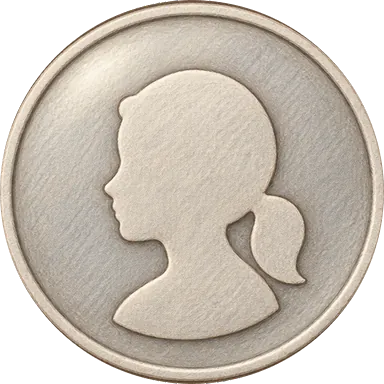
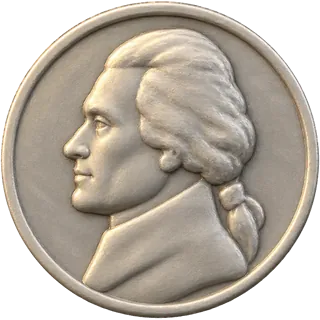
Give Market Stall and Coin Vault real-looking US coins
The owner could not tell a dime from a nickel: Market Stall's linocut coins
drew the nickel, dime and quarter in the same blue on cream, and Coin
Vault's plain silhouettes did not tell the coins apart. Both games now use
byte copies of Piggy Parade's 320x320 coins (copper Lincoln penny, smooth
silver Jefferson nickel, smaller reeded Roosevelt dime, reeded Washington
quarter), so the hub shows one set of coins. Coin pictures are allowed per
research doc 08 section 5 (18 U.S.C. 489 covers physical tokens).

The largest coin drawing at 1920x1080 is 291 px in Market Stall (tier-0
quarter in its pick-up squash) and 258 px in Coin Vault, under 320, so no
larger set was needed. Market Stall's coin landing chips are now copper
for a penny and silver for the other coins, and the closing stream is
silver, copper and cream. Both design docs record the change, the reason
and the new asset rows, and drop the old no-real-portrait coin rule.

diff --git a/src/games/market-stall/scene.ts b/src/games/market-stall/scene.ts
@@ -16,7 +16,7 @@ import { drawStarRow, STAR_GAP_SECONDS, STAR_HIT_SECONDS } from '../../ui/celebr
 import { drawEnterFade } from '../../ui/motion';
 import { BOOK_GLIDE, BOOK_ICON_PATH, createStickerOffers, leaveAlpha, leaveDrop, onBook, PICK_FLY, PICK_LIFT, PICK_SECONDS, placeBook } from '../../ui/sticker-offer';
 import { approach, clamp01, easeInCubic, easeInOutSine, easeOutBack, easeOutCubic, lerp } from '../../ui/tween';
-import { bakeShadow, createFx } from './fx';
+import { bakeShadow, createFx, INK_COUNT, PENNY_INKS, SILVER_INKS } from './fx';
 import { createSoundButton, soundArt, syncSoundIcon } from '../../scenes/hub/shared';
 import { CUSTOMER_COUNT, defaultData, GAME_ID, GOODS_COUNT, sanitizeStallData, TOP_STEP, type PendingRound, type StallData } from './data';
 import {
@@ -33,6 +33,8 @@ const WELL = `${ART}till-well`, SLOT = `${ART}till-slot`, HAND = `${ART}helper-h
 const BUTTON_PLAY = 'buttons/play-arrow', BUTTON_HOME = 'buttons/home';
 const BILLS = [1, 5, 10, 20].map(v => `${ART}bill-${v}`);
 const COIN_FACES = COIN_NAMES.map(c => [`${ART}coin-${c}-heads`, `${ART}coin-${c}-tails`] as const);
+/** Coin faces are 320x320 (byte copies of Piggy Parade's, so the hub shows one set of coins). */
+const COIN_PX = 320;
 
 /**
  * The six customers, measured from their sprites (round 2): the waiting pose's pixel size, the happy pose's, and the
@@ -460,6 +462,8 @@ export function createMarketStallScene(services: AppServices): MarketStallScene 
   const isBill = (kind: number): boolean => plan.dollars || kind === K_DOLLAR;
   const pieceW = (kind: number): number => (isBill(kind) ? billW : coinD[kind]!);
   const pieceH = (kind: number): number => (isBill(kind) ? billH : coinD[kind]!);
+  /** The chip inks a landing piece throws: copper for a penny, silver for the other coins, `billInks` for a bill. */
+  const pieceInks = (kind: number, billInks: number): number => (isBill(kind) ? billInks : kind === PENNY ? PENNY_INKS : SILVER_INKS);
   const two = (): boolean => plan.parts.length === 2;
 
   // ---------------------------------------------------------------- layout
@@ -1162,7 +1166,7 @@ export function createMarketStallScene(services: AppServices): MarketStallScene 
     if (mode === F_DROP) {
       dishLanded = Math.max(dishLanded, idx + 1); dishHop[idx] = 0;
       if (isBill(kind)) play('paper-rustle', 'A', 0, 0.5); else play('coin-stack', 'A', idx, 0.5);
-      particles.chips(dishPx[idx]!, dishPy[idx]!, 3, 160 * u, 0b1110, 0.8);
+      particles.chips(dishPx[idx]!, dishPy[idx]!, 3, 160 * u, pieceInks(kind, 0b1110), 0.8);
       return;
     }
     if (mode === F_PAW) {
@@ -1173,7 +1177,7 @@ export function createMarketStallScene(services: AppServices): MarketStallScene 
       custHop = Math.min(custHop, 0.2); pawHop = 0;
       // Landing: the stack takes a squash and settles, a clink that climbs with the stack, carved chips and a glint.
       if (isBill(kind)) play('paper-rustle', 'A', 0, 0.6); else play('coin-stack', 'A', pawN - 1, 0.7);
-      particles.chips(stackX, stackY, 6, 220 * u, 0b1111);
+      particles.chips(stackX, stackY, 6, 220 * u, pieceInks(kind, 0b1111));
       particles.glints(stackX, stackY - pieceH(kind) * 0.2, 1, pieceW(kind) * 0.3);
       return;
     }
@@ -1430,14 +1434,15 @@ export function createMarketStallScene(services: AppServices): MarketStallScene 
       particles.chips(cx, cy, 12, 300 * u, 0b1111); particles.glints(cx, cy, 4, closePx * 2);
     }
     if (buy >= 0 && t >= closeBuyAt && t < closeBuyAt + CLOSE_STREAM) {
-      // The takings fly to the harbour as a stream of mustard and cream chips.
+      // The takings fly to the harbour as a stream of silver, copper and cream chips (the coins' metals and the bills' paper).
       if (!closeStreamed) { closeStreamed = true; play('whoosh', 'C', 0, 0.6); }
       buyPoint();
       // From the total at the top of the slate, at the end of it nearest the harbour spot, so the stream never crosses the cups.
       const panel = L.slatePanel, away = easeInCubic(clamp01((t - closeBuyAt - 0.2) / CLOSE_AWAY)), sdy = -away * (L.slate.y + L.slate.h + 20);
       const sx = Math.min(panel.x + panel.w - closePitch * 2, Math.max(panel.x + closePitch * 2, pos.x)) + (Math.random() - 0.5) * closePitch * 3;
       const sy = panel.y + closePx * 0.75 + sdy + (Math.random() - 0.5) * closePx * 0.4, life = 0.45;
-      particles.spawn(Math.random() < 0.6 ? 2 : 3 + 4 * Math.floor(Math.random() * 3), sx, sy, (pos.x - sx) / life, (pos.y - sy) / life, life, 1, 0, 8, 0);
+      const r = Math.random();
+      particles.spawn((r < 0.5 ? 5 : r < 0.75 ? 4 : 3) + INK_COUNT * Math.floor(Math.random() * 3), sx, sy, (pos.x - sx) / life, (pos.y - sy) / life, life, 1, 0, 8, 0);
     }
     const revealAt = closeBuyAt + 0.45;
     if (buy >= 0 && t >= revealAt) {
@@ -1681,7 +1686,7 @@ export function createMarketStallScene(services: AppServices): MarketStallScene 
   function coin(ctx: CanvasRenderingContext2D, kind: number, face: number, x: number, y: number, scale: number, rot = 0, sx = 1): void {
     const d = coinD[kind]!;
     drawSprite(ctx, sprites, COIN_FACES[kind]![face]!, x, y, d, rot, sx * scale, scale);
-    note(COIN_FACES[kind]![face]!, d * scale * Math.max(1, sx), 384);
+    note(COIN_FACES[kind]![face]!, d * scale * Math.max(1, sx), COIN_PX);
   }
   /** A bill at full size anywhere (dish, till, paw, in flight); it never squashes below its size. */
   function bill(ctx: CanvasRenderingContext2D, kind: number, x: number, y: number, scale: number, rot = 0, sx = 1): void {

diff --git a/src/games/market-stall/fx.ts b/src/games/market-stall/fx.ts
@@ -1,21 +1,27 @@
 /**
- * Market Stall's effects in the linocut medium: carved wood chips in the four inks, cream glints and gulls. One pooled
- * set of sprite particles (typed arrays, no allocation once made); every shape is baked once per size on a CPU canvas
+ * Market Stall's effects in the linocut medium: carved wood chips in the four inks (and coin copper and silver), cream
+ * glints and gulls. One pooled set of sprite particles (typed arrays, no allocation once made); every shape is baked once per size on a CPU canvas
  * (pitfalls: bakes on GPU canvases stall the first frame that uses their draw modes), never drawn per frame.
  */
 
-/** The four linocut inks: deep blue, orange-red, mustard, cream paper. */
-export const INKS = ['#1d3461', '#c8452a', '#e9b13b', '#fbf3de'] as const;
-/** Sprite kinds: chips 0 to 11 (ink = kind % 4, shape = kind / 4), then a glint and two gull frames. */
-export const CHIPS = 12, GLINT = 12, GULL = 13;
-const KINDS = 15;
+/**
+ * The four linocut inks (deep blue, orange-red, mustard, cream paper), then the coins' copper and silver, so the chips a
+ * coin throws match the coin (penny copper, the others silver).
+ */
+export const INKS = ['#1d3461', '#c8452a', '#e9b13b', '#fbf3de', '#b8683c', '#c7cbcf'] as const;
+export const INK_COUNT = INKS.length;
+/** `inks` masks for a coin's chips: copper for the penny, silver for the nickel, dime and quarter (each with cream). */
+export const PENNY_INKS = 0b011000, SILVER_INKS = 0b101000;
+/** Sprite kinds: chips 0 to 17 (ink = kind % INK_COUNT, shape = kind / INK_COUNT), then a glint and two gull frames. */
+export const CHIPS = INK_COUNT * 3, GLINT = CHIPS, GULL = CHIPS + 1;
+const KINDS = CHIPS + 3;
 
 function cpu(w: number, h: number): { c: HTMLCanvasElement; g: CanvasRenderingContext2D | null } {
   const c = document.createElement('canvas'); c.width = Math.max(1, Math.round(w)); c.height = Math.max(1, Math.round(h));
   return { c, g: c.getContext('2d', { willReadFrequently: true }) };
 }
 
-/** One chip: a carved shard (three shapes) in one ink, `s` across, with an ink edge on the cream ones. */
+/** One chip: a carved shard (three shapes) in one ink, `s` across, with an ink edge on the light ones. */
 function bakeChip(s: number, ratio: number, ink: number, shape: number): HTMLCanvasElement {
   const { c, g } = cpu(s * ratio, s * ratio); if (!g) return c;
   g.scale(ratio, ratio);
@@ -24,7 +30,7 @@ function bakeChip(s: number, ratio: number, ink: number, shape: number): HTMLCan
   else if (shape === 1) { g.moveTo(s * 0.08, s * 0.6); g.quadraticCurveTo(s * 0.5, s * 0.02, s * 0.94, s * 0.42); g.quadraticCurveTo(s * 0.52, s * 0.3, s * 0.12, s * 0.78); }
   else { g.moveTo(s * 0.18, s * 0.2); g.lineTo(s * 0.86, s * 0.12); g.lineTo(s * 0.74, s * 0.84); g.lineTo(s * 0.12, s * 0.7); }
   g.closePath(); g.fillStyle = INKS[ink]!; g.fill();
-  if (ink === 3 || ink === 2) { g.lineWidth = Math.max(1, s * 0.07); g.strokeStyle = INKS[0]; g.stroke(); }
+  if (ink === 3 || ink === 2 || ink === 5) { g.lineWidth = Math.max(1, s * 0.07); g.strokeStyle = INKS[0]; g.stroke(); }
   g.getImageData(0, 0, 1, 1);
   return c;
 }
@@ -104,16 +110,16 @@ export function createFx(capacity: number, random: () => number): Fx {
       if (u === bakedU && ratio === bakedRatio && sprites[0]) return;
       bakedU = u; bakedRatio = ratio;
       const chip = Math.max(12, Math.round(30 * u)), glint = Math.max(16, Math.round(40 * u)), gull = Math.max(24, Math.round(54 * u));
-      for (let k = 0; k < CHIPS; k++) { sprites[k] = bakeChip(chip, ratio, k % 4, Math.floor(k / 4)); baseW[k] = baseH[k] = chip; }
+      for (let k = 0; k < CHIPS; k++) { sprites[k] = bakeChip(chip, ratio, k % INK_COUNT, Math.floor(k / INK_COUNT)); baseW[k] = baseH[k] = chip; }
       sprites[GLINT] = bakeGlint(glint, ratio); baseW[GLINT] = baseH[GLINT] = glint;
       for (let f = 0; f < 2; f++) { sprites[GULL + f] = bakeGull(gull, ratio, f); baseW[GULL + f] = gull; baseH[GULL + f] = Math.round(gull * 0.6); }
     },
     spawn,
     chips(px, py, n, speed, inks, s = 1) {
       for (let k = 0; k < n; k++) {
-        let ink = Math.floor(random() * 4); for (let t = 0; t < 4 && !(inks & (1 << ink)); t++) ink = (ink + 1) % 4;
+        let ink = Math.floor(random() * INK_COUNT); for (let t = 0; t < INK_COUNT && !(inks & (1 << ink)); t++) ink = (ink + 1) % INK_COUNT;
         const a = -Math.PI / 2 + (random() - 0.5) * Math.PI * 1.3, v = speed * (0.45 + random() * 0.55);
-        spawn(ink + 4 * Math.floor(random() * 3), px, py, Math.cos(a) * v, Math.sin(a) * v, 0.55 + random() * 0.45, s * (0.7 + random() * 0.5), speed * 2.4, (random() - 0.5) * 14);
+        spawn(ink + INK_COUNT * Math.floor(random() * 3), px, py, Math.cos(a) * v, Math.sin(a) * v, 0.55 + random() * 0.45, s * (0.7 + random() * 0.5), speed * 2.4, (random() - 0.5) * 14);
       }
     },
     glints(px, py, n, r) {

diff --git a/src/games/coin-vault/scene.ts b/src/games/coin-vault/scene.ts
@@ -42,7 +42,7 @@ const VISITOR_NAMES = VISITORS.map(a => [`${ART}${a}-wait`, `${ART}${a}-happy`] 
 const CUT_WAIT = [0.937, 0.952, 0.993, 0.928, 0.93, 0.925] as const;
 const CUT_HAPPY = 0.99;
 const COIN_FACES = COIN_NAMES.map(c => [`${ART}coin-${c}-heads`, `${ART}coin-${c}-tails`] as const);
-const COIN_PX = 384;
+const COIN_PX = 320;
 /** bill-1.webp to bill-20.webp (640x320): the plain side panels where code draws the numeral. */
 const BILL_NAMES = BILL_VALUE.map(v => `${ART}bill-${v}`);
 const BILL_PX = 640, BILL_PANEL0 = 0.04, BILL_PANEL1 = 0.31;

diff --git a/docs/games/market-stall.md b/docs/games/market-stall.md
@@ -106,8 +106,8 @@ Owner, 2026-10-05: "what keeps people engaged is the visuals, the sounds, the fe
 
 - **Pick-up:** the piece squashes wide (1.28 by 0.99 of its size) and springs back to its lifted 1.12 over 0.35 s, rising 12u above the pointer over a baked soft ink shadow; it sways a little with the pointer's speed. Two cream glints at its well; coins play a quiet `pop` B, bills `paper-rustle`.
 - **Flight to the paw:** an arc (0.3 s); a coin turns over once (its face flips to tails and back as it turns), a bill flutters.
-- **Landing:** the newest piece in the paw squashes and settles (0.3 s); a `coin-stack` clink whose pitch climbs with the stack (bills: `paper-rustle`); six carved chips in the four inks and a glint.
-- **Payment into the dish:** each piece lands with a hop, three small chips and a `coin-stack` clink climbing piece by piece (bills: `paper-rustle`).
+- **Landing:** the newest piece in the paw squashes and settles (0.3 s); a `coin-stack` clink whose pitch climbs with the stack (bills: `paper-rustle`); six carved chips and a glint; a coin's chips are its own metal (copper for a penny, silver for the others) with cream, a bill's are the four inks.
+- **Payment into the dish:** each piece lands with a hop, three small chips (a coin's in its metal with cream, a bill's orange-red, mustard and cream) and a `coin-stack` clink climbing piece by piece (bills: `paper-rustle`).
 - **Cups:** each cup pops in coming down from 1.35 of its size, dipping just under and settling (0.3 s), with the rising `tick` as before.
 - **The till** rises with a small overshoot, like a drawer popping open, with `till-drawer`.
 - **Happy customers, more each time:** when a customer is paid (or takes its item) it cheers, and the cheer grows with each customer of the round: the first hops once; the second hops twice with a wave (a sway); the third hops three times with a squash on each landing; the fourth dances four hops. Carved chips burst from it (4 to 13) and, from the third, glints.
@@ -115,7 +115,7 @@ Owner, 2026-10-05: "what keeps people engaged is the visuals, the sounds, the fe
 - **Step 9's merge:** a pop and chips as the tags meet (see "Discovery without words").
 - **The round end** (next section) and a celebration with linocut confetti and gulls.
 
-All particles are one pooled set of 240 sprite particles (`src/games/market-stall/fx.ts`): carved chips (three shard shapes in each of the four inks), a four-point cream glint and a two-frame ink gull, each baked once per size on a CPU canvas.
+All particles are one pooled set of 240 sprite particles (`src/games/market-stall/fx.ts`): carved chips (three shard shapes in each of six colours: the four inks, plus the coins' copper and silver), a four-point cream glint and a two-frame ink gull, each baked once per size on a CPU canvas.
 
 ## Round end: closing the till
 
@@ -124,7 +124,7 @@ When the last customer leaves, before the celebration (owner's approved ideas 1 
 1. **The till opens** (0 to 0.45 s): a till tray holding what the round took (a coin of each kind and a bill of each kind the round's customers paid with, so a dollar round shows bills; the $1 bill paying 100¢ counts as a bill) rises at the bottom middle with an overshoot and `till-drawer`. The pieces sit in one row, coins then bills, each in its own slot as wide as the piece plus a gap (8u), so none overlaps another; when the row is wider than 0.88 of the tray, every piece shrinks by the same factor (the closing tray is not a target, so these may draw under 96 px); the slate (the board's art, baked once per window size) drops in from the top.
 2. **Each sale pours** (0.55 s a sale): the sale's price tag (the price as it was sold: "26¢" or "$7", the total for a two-item sale) flies out of the till to a row under the slate and lands with a `pop` and chips; its amount pours into the slate's cups, one cup per dollar in the left grid (under a "$") and one per cent in the right grid (under a "¢"), each cup popping in with a climbing `tick`. A grid shows only when the round has that kind of sale (the dollar grid also when the cents reach 100). A dollar cup is deep ink with a mustard ring and nearly fills its pitch (0.98 of it), where a cent cup is mustard with an ink ring at 0.9 of the pitch, so the two never look alike. When the cents reach 100, those 100 cups trade for one dollar cup with a `pop-big`, glints and chips, and the cents start again from 0. A running total sits at the top of the slate at 0.82 of its size.
 3. **The total** (0.1 s after the last sale): the total pops to full size with a `pop-big` and chips: "$14 and 30¢" when there are dollars and cents, "$14" or "30¢" otherwise. It is exactly the sum of the round's sale prices, in whole dollars and the cents that do not make a dollar (no decimal point); the debug stats' `closing` lists every sale and the total. Hold 0.8 s.
-4. **The takings buy something for the harbour** (1.85 s): a stream of mustard and cream chips flies from the total at the top of the slate (from the end of it nearest the harbour spot, so it never crosses the cups) to a spot in the harbour (`whoosh` C), the slate, tags and till leave, and the change appears there with `harbour-chime`, chips while it is revealed, then three gulls lift off and glints. One change a round, in turn (round count): new sails on the two boats (wiped in from the bottom up, the small boat's a little later), the lighthouse lamp switching on (up, one soft dip, then full: one change in a second over a small area), or fresh paint on the houses (wiped in from the left). The overlays never grow: they draw at the background's own scale (1.0 at 1920x1080) and appear by wipes and fades only.
+4. **The takings buy something for the harbour** (1.85 s): a stream of silver, copper and cream chips (the coins' metals and the bills' paper) flies from the total at the top of the slate (from the end of it nearest the harbour spot, so it never crosses the cups) to a spot in the harbour (`whoosh` C), the slate, tags and till leave, and the change appears there with `harbour-chime`, chips while it is revealed, then three gulls lift off and glints. One change a round, in turn (round count): new sails on the two boats (wiped in from the bottom up, the small boat's a little later), the lighthouse lamp switching on (up, one soft dip, then full: one change in a second over a small area), or fresh paint on the houses (wiped in from the left). The overlays never grow: they draw at the background's own scale (1.0 at 1920x1080) and appear by wipes and fades only.
 5. Then the celebration.
 
 The child sees what their work earned and that it helps the town. Nothing is bought for the child; there is no balance, nothing is kept (the change, the bunting and the crowd are gone when the next round starts, and none of it is saved), and the takings never touch stars or stickers (they are awarded the same whatever the total). A press or key during the count (after its first 0.5 s) plays the rest four times faster (about 1.3 s instead of 5 s for four sales); Escape and the corner Home button leave as at any time (the round's awards were already saved).
@@ -244,17 +244,19 @@ Design limits this game follows (08 section 5, points 1 to 9, plus the owner's 2
 8. No bill-shaped advertising (18 U.S.C. 475).
 9. Recorded here and in the asset table (each bill marked original art).
 
-Coins are stylized linocut toy coins with a simple head and a simple tails design that echo no real coin (round 2 regenerated them: the first set echoed real US designs). Heads are generic head-and-shoulders silhouettes: a short-haired child (penny), a child with a ponytail (nickel), a child with curly hair (dime), a child in a sun hat (quarter). Tails are a sun (penny), a sailboat (nickel), an anchor (dime) and a fish (quarter). Copper penny and silver others, smooth edges on penny and nickel and reeded edges on dime and quarter, and no inscriptions, lettering, numbers or dates (08 section 5, "Coins").
+Coins look like real US coins, the same set Piggy Parade uses (round RC1, 2026-10-06). The owner asked for it: "the coins need to be significantly more USA-actual change looking. currently you can not tell what a dime vs nickel is for example". The earlier linocut coins (invented children's faces, with the nickel, dime and quarter all deep blue on cream) are gone. Pictures of coins are allowed: 18 U.S.C. 489 covers physical tokens in the likeness of a coin, and a 1951 amendment removed the language that could restrict coin pictures in publications (08 section 5). Each coin shows its real motif in soft metal relief: a copper penny with Lincoln and the shield, a smooth-edged silver nickel with Jefferson and Monticello, a smaller reeded silver dime with Roosevelt and the torch between branches, and a reeded silver quarter with Washington and the eagle. No inscriptions, lettering, numbers or dates on any face.
 
 **Decimal point (open decision for the owner).** No amount in this game uses a decimal point: ¢ amounts are whole cents ("26¢"), $ amounts are whole dollars ("$7"), and the only place both meet is the $1 bill pouring 100¢ (no "$1.00" is written). This follows Common Core, Florida, New York and North Carolina; Texas and Virginia teach "$0.45" in grade 2. The owner did not object to leaving decimals out; it stays open, and if the owner wants it, it would be an extra top step in Coin Vault rather than here (08 section 6, "Open questions").
 
 ## Art
 
-Medium: hand-carved linocut block print in four inks (deep blue, warm orange-red, mustard yellow, warm cream paper), bold carved gouge marks, slightly imperfect ink coverage and paper grain, flat shapes, matching the concept. Shared controls (Home, sound, play arrow) reuse the existing art. Everything counted or exact is drawn in code (see above). No image contains text, letters, numerals or a group of things to count.
+Medium: hand-carved linocut block print in four inks (deep blue, warm orange-red, mustard yellow, warm cream paper), bold carved gouge marks, slightly imperfect ink coverage and paper grain, flat shapes, matching the concept. The coins are the exception: they are Piggy Parade's metal coins, so a child sees one set of US coins across the hub (see "Currency illustrations"). Shared controls (Home, sound, play arrow) reuse the existing art. Everything counted or exact is drawn in code (see above). No image contains text, letters, numerals or a group of things to count.
 
-All bitmaps were generated on 2026-10-05 (coins regenerated the same day in round 2) with the built-in `image_gen` tool in Codex CLI 0.159.0 (`codex exec -m gpt-6-astra -c model_reasoning_effort=medium -c model_provider=openai`). The tool did not report the image model. Every request attached the selected concept (`ms2.png`, 1672x941) as its first reference and shared one style block (the linocut description above, with no text, letters, numbers, dollar or cent signs, logos, inscriptions or interface). Second references: the earlier $1 bill for the other bills, the till tray for the bill slot, the first board for the final board, the heron customer for the heron sticker and the tile. Sprite requests asked for a transparent background; every result came back with a clean alpha channel.
+All bitmaps except the coins were generated on 2026-10-05 with the built-in `image_gen` tool in Codex CLI 0.159.0 (`codex exec -m gpt-6-astra -c model_reasoning_effort=medium -c model_provider=openai`). The tool did not report the image model. Every request attached the selected concept (`ms2.png`, 1672x941) as its first reference and shared one style block (the linocut description above, with no text, letters, numbers, dollar or cent signs, logos, inscriptions or interface). Second references: the earlier $1 bill for the other bills, the till tray for the bill slot, the first board for the final board, the heron customer for the heron sticker and the tile. Sprite requests asked for a transparent background; every result came back with a clean alpha channel.
 
-Processing (`sharp`, scripts kept with the sources): regions of alpha above 128 were found and isolated, alpha under 16 cleared and over 235 made solid, colours at soft edges replaced by nearby solid colours (no dark or light fringe), specks under 300 px removed, cropped to the alpha bounds with 4 px padding, resized with Lanczos 3 and written as WebP quality 80, alpha quality 50. The two poses of each customer share one scale (waiting pose 760 px tall); both are anchored at the feet. Coins: each face's bounding box, inset 2 px, resized to 384x384 (at most 1.4 percent from round in the round-2 set) and given an exact anti-aliased round alpha edge. The round-2 prompts (`coin2-penny`, `coin2-nickel`, `coin2-dime`, `coin2-quarter`) asked for very simple bold shapes and named what not to echo (no real person's portrait, building, eagle, torch, branches, shield or wreath); script `coins2.mjs` with the sources. Bills: made exactly 2:1 by resampling only the plain cream run between the left corners and the animal (uniform along the width, so the outline, corners and animal keep their shape), then 512x256. The bill slot was made 1.85:1 the same way along its height, between its top and bottom rims. Each file was checked on mid-grey and dark grounds (contact sheet with the sources) and at 1:1 for halos.
+Processing (`sharp`, scripts kept with the sources): regions of alpha above 128 were found and isolated, alpha under 16 cleared and over 235 made solid, colours at soft edges replaced by nearby solid colours (no dark or light fringe), specks under 300 px removed, cropped to the alpha bounds with 4 px padding, resized with Lanczos 3 and written as WebP quality 80, alpha quality 50. The two poses of each customer share one scale (waiting pose 760 px tall); both are anchored at the feet. Bills: made exactly 2:1 by resampling only the plain cream run between the left corners and the animal (uniform along the width, so the outline, corners and animal keep their shape), then 512x256. The bill slot was made 1.85:1 the same way along its height, between its top and bottom rims. Each file was checked on mid-grey and dark grounds (contact sheet with the sources) and at 1:1 for halos.
+
+The eight coin faces are byte-for-byte copies of `public/art/piggy-parade/coin-*-{heads,tails}.webp` (320x320, made for Piggy Parade on 2026-10-04 with the same Codex `image_gen` tool; prompts, raw images and processing are recorded in `docs/games/piggy-parade.md` under "Art": square box around the disc's centre, exact round alpha edge, WebP quality 80, alpha quality 50). They replaced this game's 384x384 linocut coins in round RC1. The largest coin this game draws at 1920x1080 is 291 px wide (the tier-0 quarter, 228 px, in the 1.28 pick-up squash), under the files' 320 px, so no new larger set was needed.
 
 `harbour-stall.webp` follows the three-strip method (PR #13, as Ride Fare): the 1536x1024 base was cut into three overlapping 683x1024 portrait strips, each enlarged to 1024x1536 (Lanczos 3) and redrawn in its own request with the concept attached; the stitch script registered each strip to the base enlarged 1.5 times (alignment error 11.8 to 14.2), replaced each strip's broad colour (Gaussian sigma 32 px) with the base's, joined neighbours along the vertical path of least difference (6 px feather), and resized the 2304x1536 mosaic to 1920x1280 (Lanczos 3); WebP quality 80, opaque. No visible join at 1:1. It shows the striped awning edge, the two stall posts, the harbour (sky, gulls, sea, two boats, pilings, a jetty, the lighthouse and houses) and the empty plank counter with a small loaf basket and a wheat jug at its far ends: no customer, coins, bills, dish, till, tag, board or goods.
 
@@ -265,10 +267,10 @@ Processing (`sharp`, scripts kept with the sources): regions of alpha above 128 
 | File in `public/art/market-stall/` | Pixels | Largest drawn at 1920x1080 | Source and processing |
 | --- | --- | --- | --- |
 | `harbour-stall.webp` | 1920x1280 | 1920x1280 cover-fit (scale 1.0) | `bg` base, then `bg-s0-1`, `bg-s1-1`, `bg-s2-1`; three-strip stitch, opaque, 765 KB |
-| `coin-penny-heads.webp`, `coin-penny-tails.webp` | 384x384 | 179 at tier 0, 201 picked up (1.12x): scale 0.52 | `coin2-penny` (round 2 regeneration, simpler designs); bounding box to square, round mask |
-| `coin-nickel-heads.webp`, `coin-nickel-tails.webp` | 384x384 | 200, 224 picked up: 0.58 | `coin2-nickel`; as above |
-| `coin-dime-heads.webp`, `coin-dime-tails.webp` | 384x384 | 169, 189 picked up: 0.49 | `coin2-dime`; as above |
-| `coin-quarter-heads.webp`, `coin-quarter-tails.webp` | 384x384 | quarters draw only at tier 2 in steps 1 to 4 (183, 205 picked up: 0.53); at tier 0 from step 5, 228 and 255: 0.67 | `coin2-quarter`; as above |
+| `coin-penny-heads.webp`, `coin-penny-tails.webp` | 320x320 | 179 at tier 0, 228 wide in the 1.28 pick-up squash (scale 0.71, measured round RC1) | Byte copy of Piggy Parade's `coin-penny-*` (round RC1, owner request): Lincoln and the shield, copper, smooth edge |
+| `coin-nickel-heads.webp`, `coin-nickel-tails.webp` | 320x320 | 200 at tier 0; 224 measured (0.70), at most 256 in the squash (0.80) | Byte copy of Piggy Parade's `coin-nickel-*`: Jefferson and Monticello, silver, smooth edge |
+| `coin-dime-heads.webp`, `coin-dime-tails.webp` | 320x320 | 169 at tier 0, 216 in the squash (0.67, measured) | Byte copy of Piggy Parade's `coin-dime-*`: Roosevelt and the torch between branches, silver, reeded edge |
+| `coin-quarter-heads.webp`, `coin-quarter-tails.webp` | 320x320 | 228 at tier 0 from step 5, 291 wide in the squash: 0.91 (measured round RC1, the largest coin drawing) | Byte copy of Piggy Parade's `coin-quarter-*`: Washington and the eagle, silver, reeded edge |
 | `bill-1.webp` | 512x256 | 378 x 189 (240u at tier 0, picked up 1.12x; scale 0.74) | Original art, no real note used as input. `bill-1s` (third attempt: the first two were 2.2 to 2.3:1 with the gull too large); plain run resampled to exactly 2:1 |
 | `bill-5.webp` | 512x256 | 378 x 189 | Original art, no real note used as input. `bill-5s` (third attempt), with an earlier processed $1 bill as template; 2:1 as above |
 | `bill-10.webp` | 512x256 | 378 x 189 | Original art, no real note used as input. `bill-10s` (third attempt), template as above; 2:1 as above |
@@ -305,7 +307,7 @@ Processing (`sharp`, scripts kept with the sources): regions of alpha above 128 
 
 **Round 4 overlays.** Generated 2026-10-05 with the built-in `image_gen` tool in Codex CLI 0.159.0 (`codex exec -m gpt-6-astra -c model_reasoning_effort=medium -c model_provider=openai -s workspace-write`); the tool did not report the image model. Every request attached the concept first; sails, lamp and houses also attached the matching region of `harbour-stall.webp`, enlarged to 1536x1024, so the overlay shares its framing. One generation each, no retries. Processing (sharp): alpha under 16 cleared and over 235 made solid, soft-edge colours replaced by nearby solid colours, specks under 300 px removed, components split where one image held two overlays, cropped to the alpha bounds with 4 px padding, resized with Lanczos 3 by the region's scale, WebP quality 80, alpha quality 50. Positions are background pixels of the 1920x1280 background (`docs/games/market-stall/overlays.json`, which names the files as they were in the art round: `sails-big`, `sail-small`, `lamp-glow`, `houses-paint`, `bunting-left`, `bunting-right`); each draws at the background's own scale and offset, so 1:1 at 1920x1080, and is never animated above that (wipes, fades and drops only). Measured at 1920x1080 in round 4: bunting and paint 1.000 (sails and lamp use the same drawing path). No new customer pose was made: the happy poses with code hops, sways and squashes make the dance. Sources (prompts, Codex logs, raw images, alignment checks, contact sheet) are in the task workspace's `art4/market-stall/` and copied to `D:/CoreWise/_artifacts/CoreWiseLearn/market-stall/art-sources/art4/`.
 
-Total 55 files, 3.05 MB (the background is 765 KB of that). The largest drawn scales in the table were measured in round 2 at 1920x1080 (tier 0, steps 1 to 4, play and celebration, with pieces carried): every image at most 1.000 (background exactly 1.0, customers 0.961, dish 0.966). Generated but not shipped: a goat customer (its waiting paw did not read as held out), a woven change mat (the paw is the change target), the first two boards, the first three sets of bills, the first slot and the first set of coins (round 1; replaced because they echoed real US coin designs).
+Total 55 files, 2.85 MB (the background is 765 KB of that). The largest drawn scales in the table were measured in round 2 (coins in round RC1) at 1920x1080 (tier 0, steps 1 to 4, play and celebration, with pieces carried): every image at most 1.000 (background exactly 1.0, customers 0.961, dish 0.966). Generated but not shipped: a goat customer (its waiting paw did not read as held out), a woven change mat (the paw is the change target), the first two boards, the first three sets of bills, the first slot and two sets of linocut coins (round 1's, then round 2's, which RC1 replaced with Piggy Parade's real-looking coins).
 
 Raw images, prompts, Codex logs, strips, the stitch output and all scripts are kept outside the checkout in `D:/CoreWise/_artifacts/CoreWiseLearn/market-stall/art-sources/`; the Codex originals are also under `C:/Users/Home/.codex/generated_images/`.
 

diff --git a/docs/games/coin-vault.md b/docs/games/coin-vault.md
@@ -203,7 +203,7 @@ Limits every bill in this game keeps (08 section 5, "Design limits"):
 7. A thick soft outline, flat colour and a big code-drawn numeral make it plainly a toy.
 8. No bill-shaped advertising or promotional art (18 U.S.C. 475).
 
-Coins: stylized, no inscriptions, dates or lettering (18 U.S.C. 489 covers physical tokens; a drawn coin is not one).
+Coins look like real US coins, the same set Piggy Parade uses (round RC1, 2026-10-06). The owner asked for it: "the coins need to be significantly more USA-actual change looking. currently you can not tell what a dime vs nickel is for example". Pictures of coins are allowed: 18 U.S.C. 489 covers physical tokens in the likeness of a coin, and a 1951 amendment removed the language that could restrict coin pictures in publications (08 section 5). Each coin shows its real motif in soft metal relief: a copper penny with Lincoln and the shield, a smooth-edged silver nickel with Jefferson and Monticello, a smaller reeded silver dime with Roosevelt and the torch between branches, and a reeded silver quarter with Washington and the eagle. No inscriptions, lettering, numbers or dates on any face.
 
 ## Sound
 
@@ -240,13 +240,13 @@ No allocation in update or render: coins and bills in flight (32), pieces rollin
 
 ## Art
 
-Medium: coloured pencil on warm toned paper, visible hatching and grain, honey wood, sage-green felt, russet red, warm cream, soft silver and copper; true-colour WebP. Shared controls (Home, sound, play arrow) reuse the existing art.
+Medium: coloured pencil on warm toned paper, visible hatching and grain, honey wood, sage-green felt, russet red, warm cream, soft silver and copper; true-colour WebP. The coins are the exception: they are Piggy Parade's metal coins, so a child sees one set of US coins across the hub (see "Currency illustrations"). Shared controls (Home, sound, play arrow) reuse the existing art.
 
-All bitmaps were generated on 2026-10-05 with the built-in `image_gen` tool in Codex CLI 0.159.0 (`codex exec -m gpt-6-astra -c model_reasoning_effort=medium -c model_provider=openai`). The tool did not report the image model. Every request attached the selected concept (`cv2.png`, 1672x941) as its first and only reference and shared one style block (soft coloured-pencil drawing on warm toned paper, visible hatching and grain, soft warm brown outlines, the concept's shapes, proportions and palette, no text, letters, numbers, logos, inscriptions or interface). No real banknote or coin photo was ever given to the model. Sprite requests asked for a transparent background; every result came back with a clean alpha channel.
+All bitmaps except the coins were generated on 2026-10-05 with the built-in `image_gen` tool in Codex CLI 0.159.0 (`codex exec -m gpt-6-astra -c model_reasoning_effort=medium -c model_provider=openai`). The tool did not report the image model. Every request attached the selected concept (`cv2.png`, 1672x941) as its first and only reference and shared one style block (soft coloured-pencil drawing on warm toned paper, visible hatching and grain, soft warm brown outlines, the concept's shapes, proportions and palette, no text, letters, numbers, logos, inscriptions or interface). No real banknote or coin photo was ever given to the model. Sprite requests asked for a transparent background; every result came back with a clean alpha channel.
 
-Round 2 (2026-10-05) regenerated the eight coin faces the same way (same command, the concept attached as the only reference, one request per coin: `coin-penny-3`, `coin-nickel-3`, `coin-dime-3`, `coin-quarter-3`) because the round-1 heads were detailed portraits recognisable as real presidents. The new prompts ask for a plain cut-out head-and-shoulders silhouette with no eye, ear, hair strands or other inner detail, showing no particular person, and plain tails shapes; size, centring, the circle fit and the round edge are unchanged.
+The eight coin faces are byte-for-byte copies of `public/art/piggy-parade/coin-*-{heads,tails}.webp` (320x320, made for Piggy Parade on 2026-10-04 with the same Codex `image_gen` tool; prompts, raw images and processing are recorded in `docs/games/piggy-parade.md` under "Art": square box around the disc's centre, exact round alpha edge, WebP quality 80, alpha quality 50). In round RC1 they replaced this game's 384x384 coloured-pencil coins, whose plain silhouettes did not tell the coins apart. The largest coin this game draws at 1920x1080 is 258 px (the tier-0 quarter, 228 px, lifted), under the files' 320 px, so no new larger set was needed.
 
-Processing (`sharp`; scripts kept with the sources): regions of alpha above 128 found and isolated, alpha under 16 cleared and over 235 made solid, colours at soft edges replaced by nearby solid colours (no dark or light fringe), specks under 300 px removed, cropped to the alpha bounds with 4 px padding, resized with Lanczos 3 and written as WebP quality 80, alpha quality 50. The two poses of each visitor share one scale (waiting pose 400 px tall). Coins: each face's circle fitted from its alpha area and centroid, cropped 2 px inside, resized to 384x384 with an exact anti-aliased round edge. Bills: cropped, then cut from 2.21 to 2.42:1 to exactly 2:1 by removing one vertical strip from each plain side panel (at 0.2 and 0.8 of the width, 48 px crossfade at each join), then resized to 640x320. Dishes, the tag and the symbol block were cut from shared sheets. Every file was checked on light, mid-grey and dark grounds for halos and stray pixels (contact sheet with the sources).
+Processing (`sharp`; scripts kept with the sources): regions of alpha above 128 found and isolated, alpha under 16 cleared and over 235 made solid, colours at soft edges replaced by nearby solid colours (no dark or light fringe), specks under 300 px removed, cropped to the alpha bounds with 4 px padding, resized with Lanczos 3 and written as WebP quality 80, alpha quality 50. The two poses of each visitor share one scale (waiting pose 400 px tall). Bills: cropped, then cut from 2.21 to 2.42:1 to exactly 2:1 by removing one vertical strip from each plain side panel (at 0.2 and 0.8 of the width, 48 px crossfade at each join), then resized to 640x320. Dishes, the tag and the symbol block were cut from shared sheets. Every file was checked on light, mid-grey and dark grounds for halos and stray pixels (contact sheet with the sources).
 
 `desk.webp` follows the three-strip method (PR #13, Ride Fare): the 1536x1024 base `bg-base3` (third attempt: the first was too saturated and smooth for coloured pencil, the second put the desk edge too high) was cut into three overlapping 683x1024 strips, each enlarged to 1024x1536 and redrawn faithfully in its own request (`bg-s0-1`, `bg-s1-1`, `bg-s2-1`, concept and strip attached). The PR #13 stitch script registered each strip on the base enlarged 1.5 times (alignment error 9.6 to 12.5), locked broad colour to the base (Gaussian sigma 32), joined neighbours along the least-different vertical path (6 px feather) and resized the 2304x1536 mosaic to 1920x1280 (Lanczos 3), WebP quality 80, opaque. A straight-line scan finds no vertical seam (only the plank joins). It shows only the forest floor behind the desk (moss, ferns, ivy and pinecones toward the corners) and the empty desk: no stump, mat, dishes, purse, coins, bills or animals.
 
@@ -257,10 +257,10 @@ Processing (`sharp`; scripts kept with the sources): regions of alpha above 128 
 | File in `public/art/coin-vault/` | Pixels | Largest drawn at 1920x1080 | Source (prompt in `prompts/`) and processing |
 | --- | --- | --- | --- |
 | `desk.webp` | 1920x1280 | 1920x1280 cover-fit (scale 1.0) | `bg-base3`, then `bg-s0-1`, `bg-s1-1`, `bg-s2-1`; three-strip stitch, opaque, 465 KB |
-| `coin-penny-heads.webp`, `coin-penny-tails.webp` | 384x384 | 256 (the tier-0 quarter, 228, lifted 1.12x; scale 0.67; the penny itself at most 200; measured round 2: quarter 0.665, nickel 0.583, penny 0.522, dime 0.493) | `coin-penny-3` (third attempt, round 2: `coin-penny` was a realistic engraved render, `coin-penny-2` had a detailed portrait recognisable as a real president; `-3` asks for a plain cut-out head-and-shoulders silhouette with no inner detail and a plain shield); circle fit, round mask |
-| `coin-nickel-heads.webp`, `coin-nickel-tails.webp` | 384x384 | 256 | `coin-nickel-3` (third attempt, same reasons; plain silhouette with a ponytail, a plain domed building); smooth edge |
-| `coin-dime-heads.webp`, `coin-dime-tails.webp` | 384x384 | 256 | `coin-dime-3` (third attempt; plain silhouette, a plain torch without branches); reeded edge |
-| `coin-quarter-heads.webp`, `coin-quarter-tails.webp` | 384x384 | 256 | `coin-quarter-3` (third attempt; plain silhouette with a tied-back bow, a plain spread-wing bird); reeded edge |
+| `coin-penny-heads.webp`, `coin-penny-tails.webp` | 320x320 | 203 lifted at tier 0 (scale 0.63, measured round RC1) | Byte copy of Piggy Parade's `coin-penny-*` (round RC1, owner request): Lincoln and the shield, copper, smooth edge |
+| `coin-nickel-heads.webp`, `coin-nickel-tails.webp` | 320x320 | 226 (0.71) | Byte copy of Piggy Parade's `coin-nickel-*`: Jefferson and Monticello, silver, smooth edge |
+| `coin-dime-heads.webp`, `coin-dime-tails.webp` | 320x320 | 191 (0.60) | Byte copy of Piggy Parade's `coin-dime-*`: Roosevelt and the torch between branches, silver, reeded edge |
+| `coin-quarter-heads.webp`, `coin-quarter-tails.webp` | 320x320 | 258 (the tier-0 quarter, 228, lifted past 1.12 in its pick-up spring; 0.81, the largest coin drawing) | Byte copy of Piggy Parade's `coin-quarter-*`: Washington and the eagle, silver, reeded edge |
 | `bill-1.webp` | 640x320 | 380 x 190 (the board's $1, 359 x 180, in its 1.06 count-on pulse; scale 0.59, measured round 3) | `bill-1-2`, mouse silhouette; original art, no real note used as input; 2.31:1 cut to 2:1 |
 | `bill-5.webp` | 640x320 | 334 x 167 (tier-0 bill lifted 1.08x; scale 0.52) | `bill-5-2`, rabbit silhouette; original art, no real note used as input; 2.21:1 cut to 2:1 |
 | `bill-10.webp` | 640x320 | 334 x 167 | `bill-10-2`, fox silhouette; original art, no real note used as input; 2.42:1 cut to 2:1 |
@@ -299,7 +299,7 @@ Processing (`sharp`; scripts kept with the sources): regions of alpha above 128 
 | `gift-ribbon.webp` | 320x254 | 255 wide as it lands (189 times its 1.35 slam; scale 0.80) | `gift` sheet, left: a russet cloth bow |
 | `gift-tag.webp` | 256x115 | 211 x 95 (scale 0.82, measured round 4) | `gift` sheet, right: a blank cream tag with a punched hole and twine; the amount is drawn in code |
 
-Total 54 files, about 2.46 MB (the background is 465 KB of that). No sticker or the tile shows money, coins, prices or amounts.
+Total 54 files, about 2.42 MB (the background is 465 KB of that). No sticker or the tile shows money, coins, prices or amounts.
 
 **Round 4 art** (prepared and audited before this round, 2026-10-05): generated with the built-in `image_gen` tool in Codex CLI 0.159.0 (`codex exec -m gpt-6-astra -c model_reasoning_effort=medium -c model_provider=openai -s workspace-write`; the tool did not report the image model). Every request attached three references: the concept (`concept.webp` as PNG), `purse.webp` and `squirrel-wait.webp`, to match line weight, hatching and lighting. No banknote, coin photo or money was given to the model or asked for, and no file contains text, letters, numbers or money. Requests: `goals-1`, `goals-2`, `goals-3` (two goal pictures per sheet), `jar` (1024x1536) and `gift`. Processing as above (connected regions split at the gap, the jar at alpha threshold 8 so the faint glass stays; alpha clean, edge colour bled from solid neighbours, specks under 300 px removed, 4 px pad, Lanczos 3, WebP quality 80, alpha quality 50, effort 6), checked on mid grey and near-black. Prompts, raw outputs, logs, scripts and the contact sheet are in `D:/CoreWise/_artifacts/CoreWiseLearn/coin-vault/art-sources/round4/`.
 
